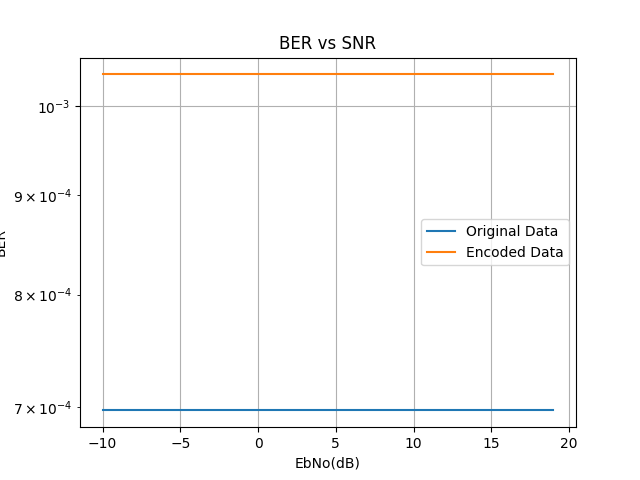
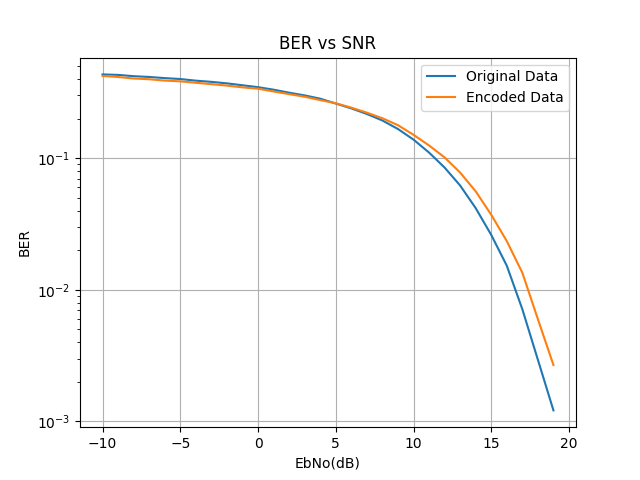
Fixed comparision

diff --git a/Python/FuncAndClass.py b/Python/FuncAndClass.py
@@ -167,7 +167,7 @@ def stringIt(arr):
     return arr
 
 #Transmittion
-def monteTransmit(EbNo, transArr, data=0):
+def monteTransmit(EbNo, transArr, data=[0, 1, 2]):
     BERarr = [None] * EbNo.size
     M = 64
     r = 0
@@ -200,7 +200,7 @@ def monteTransmit(EbNo, transArr, data=0):
         #calculating the BER            
         
         
-        if data!=0:
+        if data!=[0, 1, 2]:
             answer = 'Encoded Data'
             data = transArr
             decodedData = demodArr
